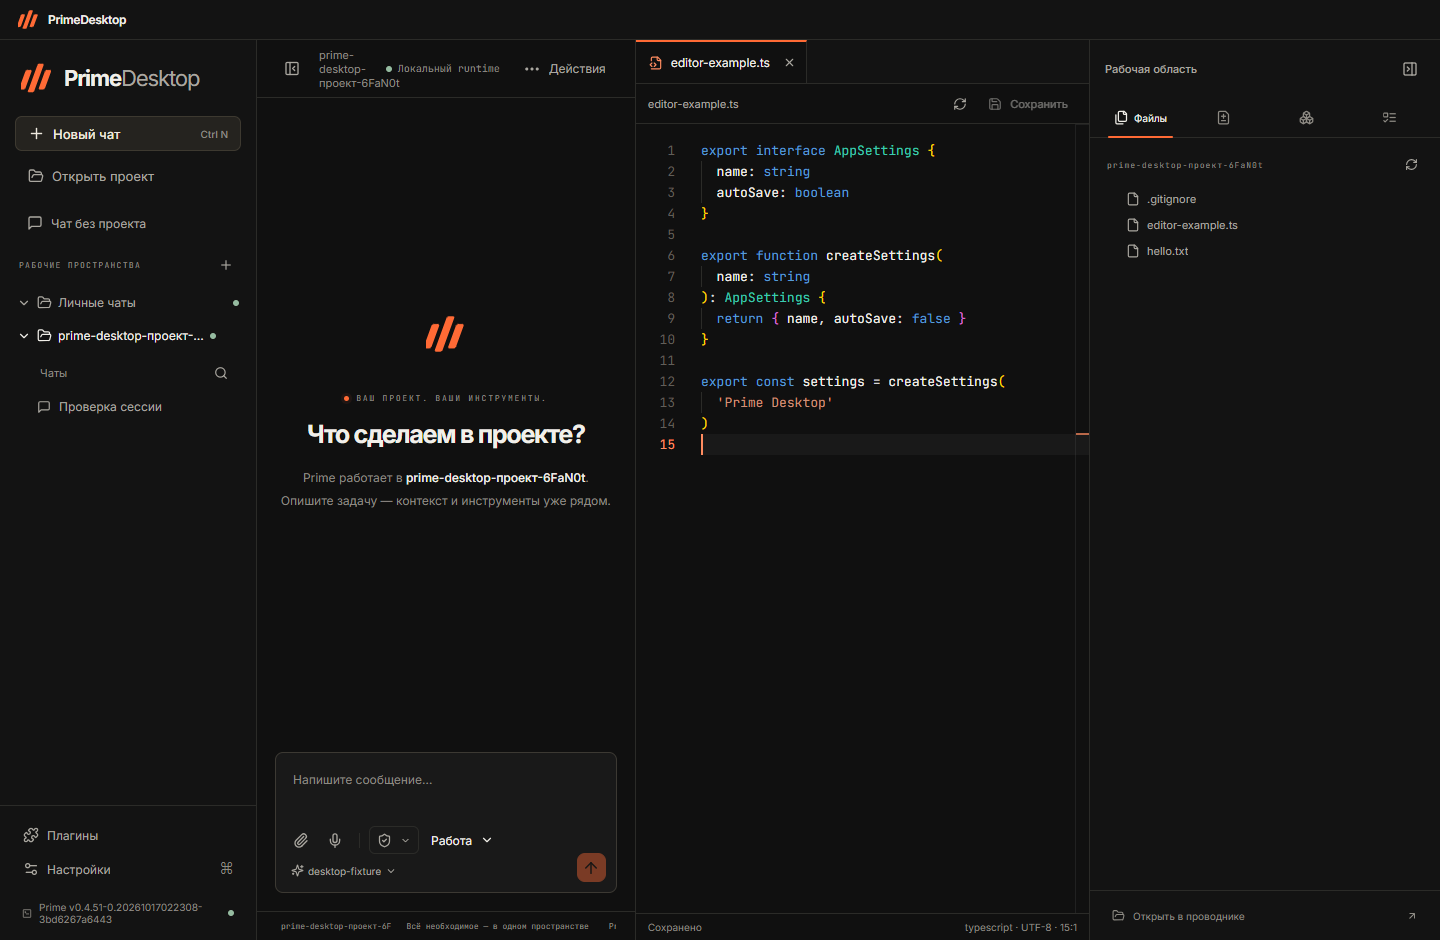
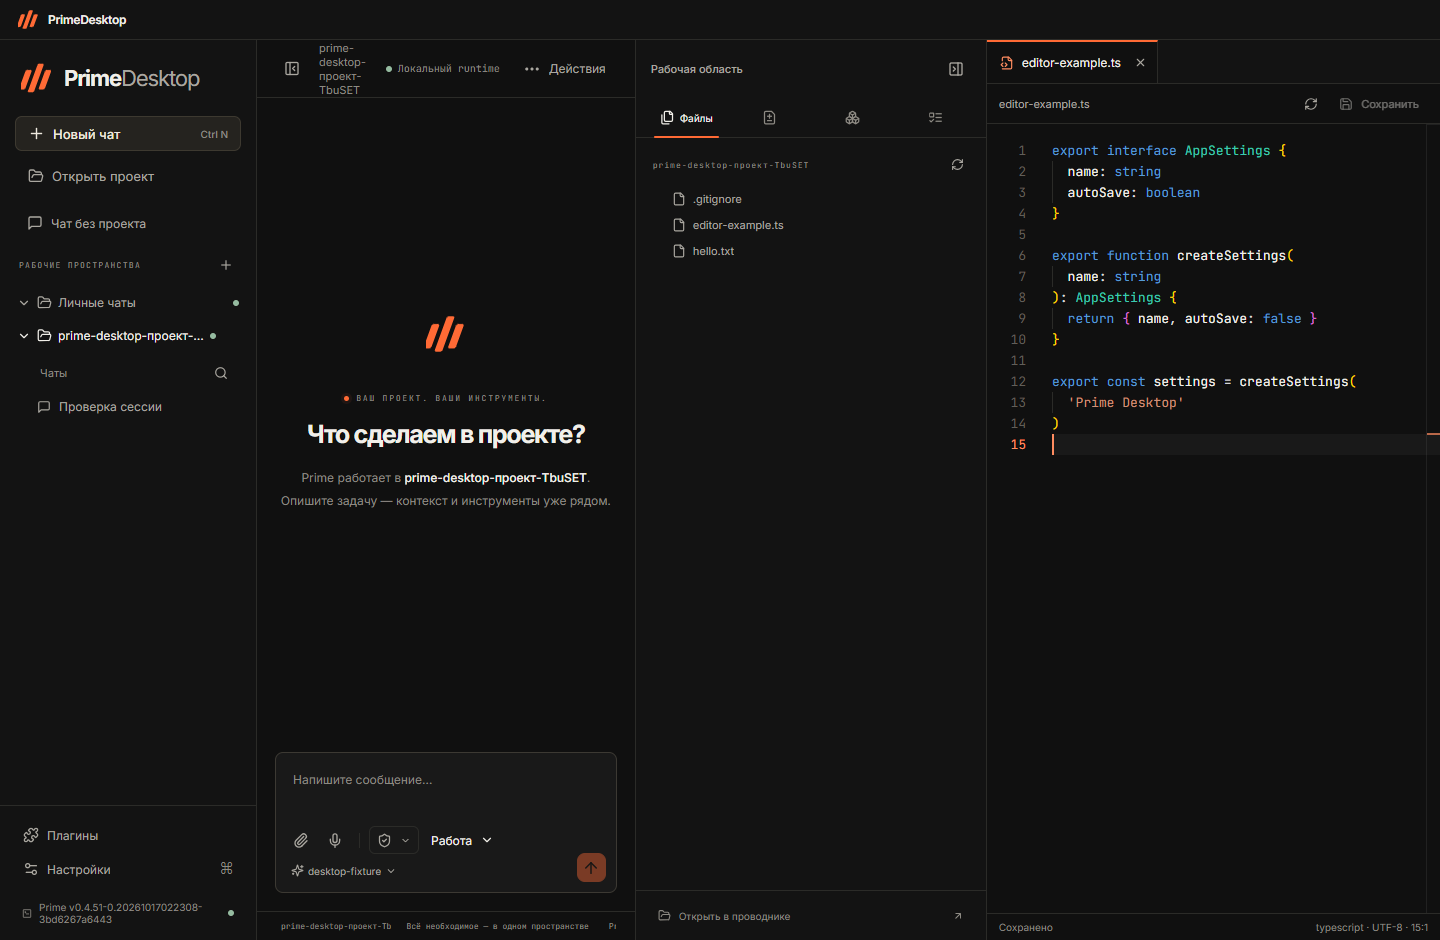
fix: position files before editor and center chat deletion dialog

diff --git a/src/renderer/src/features/projects/Sidebar.tsx b/src/renderer/src/features/projects/Sidebar.tsx
@@ -1,5 +1,6 @@
 import { useI18n } from '../../i18n'
 import { PrimeLogo } from '../../components/PrimeLogo'
+import { Modal } from '../../components/Modal'
 import {
   ChevronDown,
   FolderOpen,
@@ -14,7 +15,7 @@ import {
   MoreHorizontal,
   SquareTerminal
 } from 'lucide-react'
-import { useEffect, useState } from 'react'
+import { useEffect, useRef, useState } from 'react'
 import type { Workspace } from '../../app/useWorkspace'
 export function Sidebar({
   workspace: w,
@@ -36,6 +37,13 @@ export function Sidebar({
   const [renaming, setRenaming] = useState<string | null>(null)
   const [title, setTitle] = useState('')
   const [deleting, setDeleting] = useState<string | null>(null)
+  const [deleteBusy, setDeleteBusy] = useState(false)
+  const [deleteError, setDeleteError] = useState('')
+  const cancelDelete = useRef<HTMLButtonElement>(null)
+  useEffect(() => {
+    setDeleting(null)
+    setDeleteError('')
+  }, [w.project?.id])
   const sessions = w.sessions
     .filter(
       (session) =>
@@ -231,6 +239,7 @@ export function Sidebar({
                           className="danger"
                           onClick={() => {
                             setDeleting(session.id)
+                            setDeleteError('')
                             setMenu(null)
                           }}
                         >
@@ -286,26 +295,53 @@ export function Sidebar({
         </div>
       </footer>
       {deleting && (
-        <div className="confirm-inline">
-          <strong>{t('Удалить чат и его историю?')}</strong>
-          <div>
-            <button onClick={() => setDeleting(null)}>{t('Отмена')}</button>
+        <Modal
+          title={t('Удалить чат и его историю?')}
+          className="delete-chat-modal"
+          initialFocus={cancelDelete}
+          close={() => {
+            if (!deleteBusy) setDeleting(null)
+          }}
+        >
+          <div className="delete-chat-name">
+            <MessageSquare size={18} />
+            <strong>
+              {w.sessions.find((session) => session.id === deleting)?.title || t('Новый чат')}
+            </strong>
+          </div>
+          <p className="muted">
+            {t('Чат и его сообщения будут удалены. Отменить это действие нельзя.')}
+          </p>
+          {deleteError && (
+            <p role="alert" className="danger">
+              {deleteError}
+            </p>
+          )}
+          <div className="delete-chat-actions">
+            <button ref={cancelDelete} disabled={deleteBusy} onClick={() => setDeleting(null)}>
+              {t('Отмена')}
+            </button>
             <button
-              className="danger"
+              className="delete-chat-submit"
+              disabled={deleteBusy}
               onClick={async () => {
+                if (deleteBusy) return
+                setDeleteBusy(true)
+                setDeleteError('')
                 try {
                   await w.deleteSession(deleting)
                   setDeleting(null)
-                  await w.refresh()
                 } catch (error) {
-                  w.errorHandler(error)
+                  setDeleteError(error instanceof Error ? error.message : String(error))
+                } finally {
+                  setDeleteBusy(false)
                 }
               }}
             >
-              {t('Удалить')}
+              {deleteBusy ? t('Удаление…') : t('Удалить')}
             </button>
           </div>
-        </div>
+        </Modal>
       )}
     </aside>
   )

diff --git a/src/renderer/src/app/App.tsx b/src/renderer/src/app/App.tsx
@@ -330,6 +330,32 @@ function WorkspaceView({ workspace: w }: { workspace: Workspace }) {
             </span>
           </footer>
         </main>
+        {inspector && (
+          <>
+            <div
+              className="resizer right-resizer"
+              role="separator"
+              aria-label={t('Ширина рабочей области')}
+              tabIndex={0}
+              onPointerDown={(event) => resize('inspector', event)}
+              onKeyDown={(event) => {
+                if (event.key === 'ArrowLeft' || event.key === 'ArrowRight')
+                  setWidths((value) => ({
+                    ...value,
+                    inspector: Math.max(
+                      280,
+                      Math.min(650, value.inspector + (event.key === 'ArrowLeft' ? 10 : -10))
+                    )
+                  }))
+              }}
+            />
+            <Inspector
+              workspace={w}
+              close={() => setInspector(false)}
+              openDocument={documents.open}
+            />
+          </>
+        )}
         {documents.documents.length > 0 && (
           <>
             <div
@@ -362,32 +388,6 @@ function WorkspaceView({ workspace: w }: { workspace: Workspace }) {
             <Suspense fallback={<div className="editor-loading">{t('Открываем редактор…')}</div>}>
               <FileEditor state={documents} theme={w.preferences.theme} />
             </Suspense>
-          </>
-        )}
-        {inspector && (
-          <>
-            <div
-              className="resizer right-resizer"
-              role="separator"
-              aria-label={t('Ширина рабочей области')}
-              tabIndex={0}
-              onPointerDown={(event) => resize('inspector', event)}
-              onKeyDown={(event) => {
-                if (event.key === 'ArrowLeft' || event.key === 'ArrowRight')
-                  setWidths((value) => ({
-                    ...value,
-                    inspector: Math.max(
-                      280,
-                      Math.min(650, value.inspector + (event.key === 'ArrowLeft' ? 10 : -10))
-                    )
-                  }))
-              }}
-            />
-            <Inspector
-              workspace={w}
-              close={() => setInspector(false)}
-              openDocument={documents.open}
-            />
           </>
         )}
         {(modal === 'settings' || modal === 'providers') && (

diff --git a/tests/e2e/desktop.spec.ts b/tests/e2e/desktop.spec.ts
@@ -198,6 +198,25 @@ test('opens the real Electron desktop and creates persistent Prime sessions', as
     await expect.poll(() => workers.some((url) => url.startsWith('blob:'))).toBe(true)
     await page.screenshot({ path: 'test-results/file-editor.png' })
     await page.getByRole('button', { name: 'Закрыть файл editor-example.ts', exact: true }).click()
+    await page.getByRole('button', { name: 'Действия: Проверка сессии', exact: true }).click()
+    await page.getByRole('button', { name: 'Удалить чат', exact: true }).click()
+    const deletion = page.getByRole('dialog', { name: 'Удалить чат и его историю?' })
+    await expect(deletion).toBeVisible()
+    await expect(deletion.getByText('Проверка сессии', { exact: true })).toBeVisible()
+    await expect(deletion.getByRole('button', { name: 'Отмена', exact: true })).toBeFocused()
+    const box = await deletion.boundingBox()
+    const viewport = await page.evaluate(() => ({ width: innerWidth, height: innerHeight }))
+    expect(Math.abs(box!.x + box!.width / 2 - viewport.width / 2)).toBeLessThan(2)
+    expect(Math.abs(box!.y + box!.height / 2 - viewport.height / 2)).toBeLessThan(2)
+    await page.screenshot({ path: 'test-results/delete-chat.png' })
+    await page.keyboard.press('Escape')
+    await expect(deletion).toHaveCount(0)
+    await expect(page.getByRole('button', { name: 'Проверка сессии', exact: true })).toBeVisible()
+    await page.getByRole('button', { name: 'Действия: Проверка сессии', exact: true }).click()
+    await page.getByRole('button', { name: 'Удалить чат', exact: true }).click()
+    await deletion.getByRole('button', { name: 'Удалить', exact: true }).click()
+    await expect(deletion).toHaveCount(0)
+    await expect(page.getByRole('button', { name: 'Проверка сессии', exact: true })).toHaveCount(0)
     await page.getByRole('textbox', { name: 'Сообщение Prime' }).fill('Проверка связи через CLI')
     await page.getByRole('button', { name: 'Отправить сообщение', exact: true }).click()
     await expect(

diff --git a/src/renderer/src/styles/brand.css b/src/renderer/src/styles/brand.css
@@ -877,12 +877,13 @@ input[type='number'] {
 }
 .app-shell.has-editor {
   grid-template-columns:
-    var(--sidebar-width) 1px minmax(300px, 1fr) 1px minmax(360px, var(--editor-fraction))
-    1px var(--inspector-width);
+    var(--sidebar-width) 1px minmax(300px, 1fr) 1px var(--inspector-width)
+    1px minmax(360px, var(--editor-fraction));
 }
 .app-shell.has-editor.hide-sidebar {
-  grid-template-columns: minmax(300px, 1fr) 1px minmax(360px, var(--editor-fraction)) 1px var(
-      --inspector-width
+  grid-template-columns: minmax(300px, 1fr) 1px var(--inspector-width) 1px minmax(
+      360px,
+      var(--editor-fraction)
     );
 }
 .app-shell.has-editor.hide-inspector {
@@ -1147,6 +1148,49 @@ input[type='number'] {
   .has-editor > .right-resizer {
     display: none;
   }
+}
+.modal.delete-chat-modal {
+  width: 460px;
+  margin: auto;
+}
+.delete-chat-name {
+  display: flex;
+  align-items: flex-start;
+  gap: 12px;
+  padding: 14px;
+  border: 1px solid var(--border);
+  border-radius: 8px;
+  background: var(--bg);
+}
+.delete-chat-name svg {
+  flex-shrink: 0;
+  color: var(--muted);
+}
+.delete-chat-name strong {
+  min-width: 0;
+  overflow-wrap: anywhere;
+}
+.delete-chat-modal p {
+  line-height: 1.6;
+  margin: 16px 0 24px;
+}
+.delete-chat-actions {
+  display: flex;
+  justify-content: flex-end;
+  gap: 10px;
+}
+.delete-chat-actions button {
+  min-width: 96px;
+  min-height: 38px;
+}
+.delete-chat-submit {
+  background: #bb3d32;
+  border-color: #bb3d32;
+  color: #fff;
+}
+.delete-chat-submit:hover:not(:disabled) {
+  background: #ce493d;
+  border-color: #ce493d;
 }
 .code-editor-host {
   width: 100%;

diff --git a/src/renderer/src/components/Modal.tsx b/src/renderer/src/components/Modal.tsx
@@ -1,28 +1,33 @@
 import { useI18n } from '../i18n'
-import { useEffect, useRef } from 'react'
+import { useEffect, useId, useRef, type RefObject } from 'react'
 import { X } from 'lucide-react'
 export function Modal({
   title,
   close,
   children,
   wide = false,
-  className = ''
+  className = '',
+  initialFocus
 }: {
   title: string
   close: () => void
   children: React.ReactNode
   wide?: boolean
   className?: string
+  initialFocus?: RefObject<HTMLElement | null>
 }) {
   const { t } = useI18n()
   const ref = useRef<HTMLDialogElement>(null)
+  const titleId = useId()
   useEffect(() => {
     ref.current?.showModal()
+    initialFocus?.current?.focus()
     return () => ref.current?.close()
   }, [])
   return (
     <dialog
       ref={ref}
+      aria-labelledby={titleId}
       className={`modal ${wide ? 'wide' : ''} ${className}`}
       onCancel={(event) => {
         event.preventDefault()
@@ -33,7 +38,7 @@ export function Modal({
       }}
     >
       <header>
-        <h2>{title}</h2>
+        <h2 id={titleId}>{title}</h2>
         <button className="icon" aria-label={t('Закрыть')} onClick={close}>
           <X size={18} />
         </button>

diff --git a/src/shared/translations.ts b/src/shared/translations.ts
@@ -184,6 +184,9 @@ export const english: Record<string, string> = {
   Переименовать: 'Rename',
   'Закрепить / открепить': 'Pin / unpin',
   'Удалить чат': 'Delete chat',
+  'Чат и его сообщения будут удалены. Отменить это действие нельзя.':
+    'The chat and its messages will be deleted. This cannot be undone.',
+  'Удаление…': 'Deleting…',
   'Здесь появятся ваши чаты': 'Your chats will appear here',
   'Откройте папку, чтобы начать работу с проектом': 'Open a folder to start working on a project',
   НЕДАВНИЕ: 'RECENT',

diff --git a/src/renderer/src/styles/global.css b/src/renderer/src/styles/global.css
@@ -488,24 +488,6 @@ kbd {
   justify-content: flex-start;
   font-size: 12px;
 }
-.confirm-inline {
-  position: absolute;
-  bottom: 120px;
-  left: 10px;
-  right: 10px;
-  z-index: 10;
-  padding: 16px;
-  background: var(--raised);
-  border: 1px solid var(--border);
-  border-radius: 8px;
-  font-size: 12px;
-  box-shadow: 0 8px 30px #0004;
-}
-.confirm-inline > div {
-  display: flex;
-  gap: 8px;
-  margin-top: 12px;
-}
 .main-workspace {
   display: flex;
   flex-direction: column;

diff --git a/docs/release-checklist.md b/docs/release-checklist.md
@@ -42,6 +42,11 @@
 - Dirty files prompt before window reload/exit; tab closing has Save, Discard and Cancel. Image and comparison tabs remain readonly.
 - Chat search is revealed by a magnifier and clears when dismissed or switching project. Permission mode is an explicit described menu inside the composer toolbar. The Shift+Enter caption and project-opening loading banner are removed; the initial startup intro remains.
 
+## Version 0.3.1 pane layout
+
+- Open files use the order: chat list, chat, workspace files, editor. Hidden sidebar/workspace variants retain the editor at the right edge.
+- Chat deletion uses a centered native modal with the chat title, initial focus on Cancel, Escape cancellation and duplicate-submit protection. Errors remain inside the dialog.
+
 ## Public release requirements
 
 - No public Desktop repository or update-feed destination has been assigned. The updater reports an unavailable feed; no release was published.
